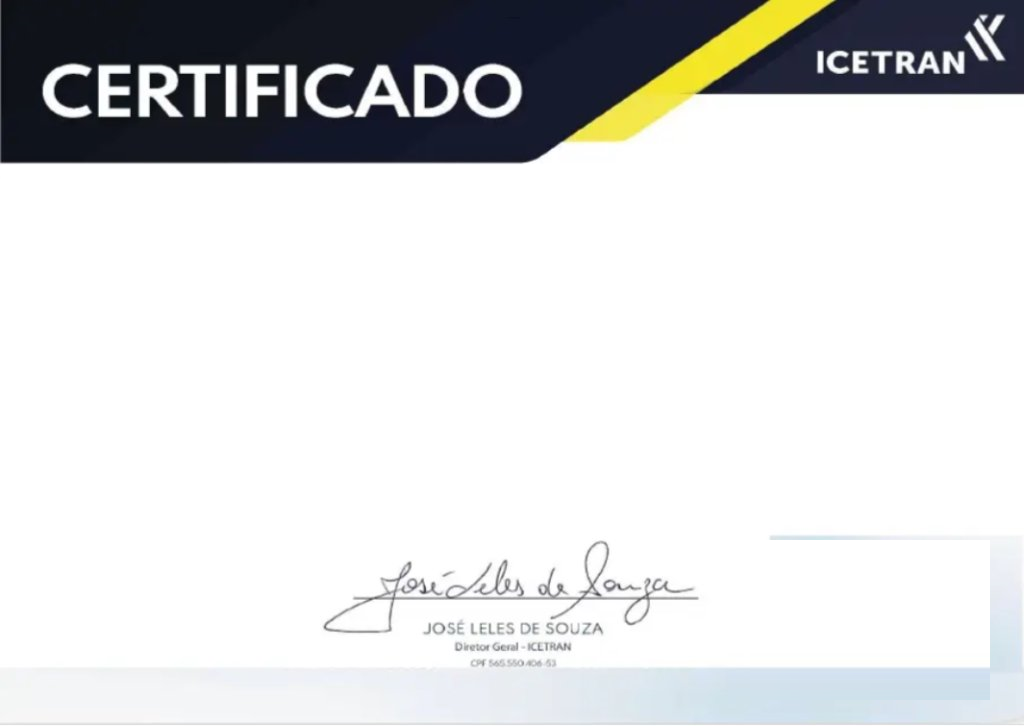
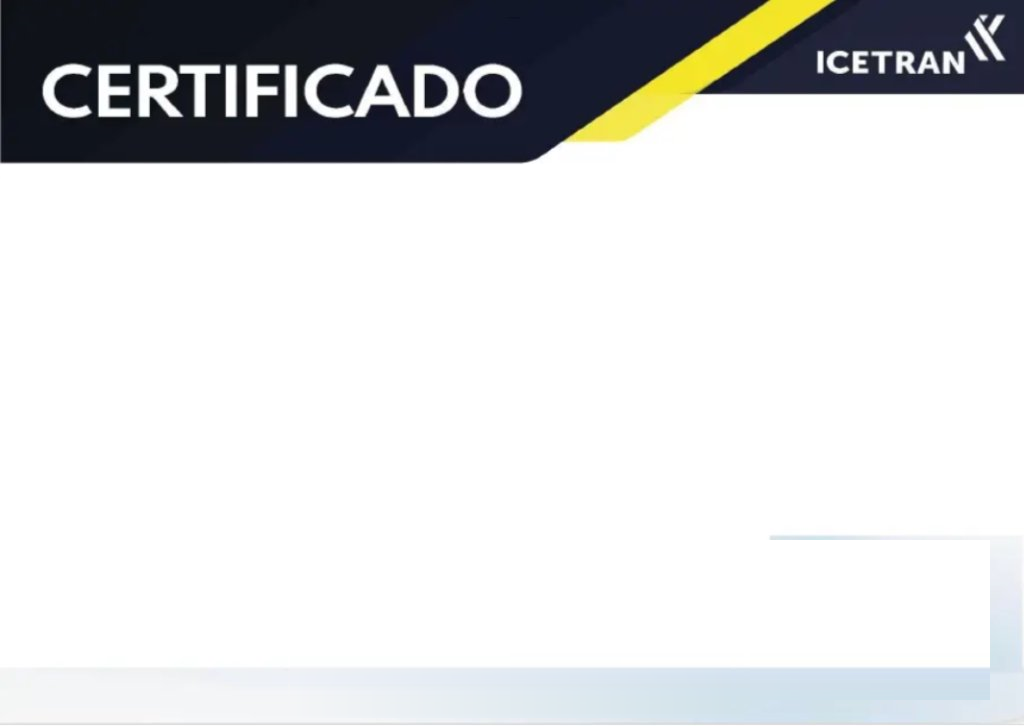
feat(icetran): campos editaveis do diretor e tipografia fina e nitida na assinatura

Changed region(s): [[0.3125, 0.7273, 0.6875, 0.9394]]

diff --git a/criar-certificado-condutor.html b/criar-certificado-condutor.html
@@ -853,6 +853,58 @@
             box-shadow: 0 6px 24px rgba(0, 220, 130, 0.35);
         }
 
+    
+        /* ─── BLOCO DE ASSINATURA & DIRETORIA VETORIAL NÍTIDA ─── */
+        .cert-signature-block {
+            position: absolute;
+            bottom: 22px;
+            left: 50%;
+            transform: translateX(-50%);
+            display: flex;
+            flex-direction: column;
+            align-items: center;
+            text-align: center;
+            pointer-events: none;
+            z-index: 10;
+            width: 440px;
+        }
+        .cert-signature-img {
+            height: 52px;
+            width: auto;
+            max-width: 380px;
+            object-fit: contain;
+            margin-bottom: -4px;
+            filter: contrast(1.1);
+        }
+        .cert-sig-name {
+            font-family: Arial, Helvetica, sans-serif;
+            font-size: 13.5px;
+            font-weight: 600;
+            color: #111827;
+            letter-spacing: 0.8px;
+            text-transform: uppercase;
+            margin-top: 1px;
+            -webkit-font-smoothing: antialiased;
+        }
+        .cert-sig-cargo {
+            font-family: Arial, Helvetica, sans-serif;
+            font-size: 11px;
+            font-weight: 400;
+            color: #374151;
+            letter-spacing: 0.2px;
+            margin-top: 1px;
+            -webkit-font-smoothing: antialiased;
+        }
+        .cert-sig-cpf {
+            font-family: Arial, Helvetica, sans-serif;
+            font-size: 9.8px;
+            font-weight: 400;
+            color: #4b5563;
+            letter-spacing: 0.4px;
+            margin-top: 1px;
+            -webkit-font-smoothing: antialiased;
+        }
+
     </style>
 
 <script>
@@ -879,6 +931,14 @@ document.addEventListener('DOMContentLoaded', function() {
                 <div class="brand-logo">
                     <img src="logo-icone.png" alt="MG Logo" class="brand-icon-img">
                 </div>
+
+                        <!-- ASSINATURA & DIRETORIA COM TIPOGRAFIA VETORIAL FINA E NÍTIDA (EDITÁVEL) -->
+                        <div class="cert-signature-block">
+                            <img src="assets/icetran_assinatura_hd.png" class="cert-signature-img" alt="Assinatura Diretor">
+                            <div class="cert-sig-name" id="viewDiretorNome">JOSÉ LELES DE SOUZA</div>
+                            <div class="cert-sig-cargo" id="viewDiretorCargo">Diretor Geral - ICETRAN</div>
+                            <div class="cert-sig-cpf" id="viewDiretorCpf">CPF 565.550.406-53</div>
+                        </div>
                 <span class="brand-text">MG Editáveis</span>
             </a>
 
@@ -1051,6 +1111,32 @@ document.addEventListener('DOMContentLoaded', function() {
                 </div>
             </div>
 
+            <!-- SEÇÃO 4: ASSINATURA & DIRETORIA (FRENTE) -->
+            <div class="form-section">
+                <div class="form-section-title">
+                    <svg width="15" height="15" viewBox="0 0 24 24" fill="none" stroke="currentColor" stroke-width="2.2"><path d="M20 21v-2a4 4 0 0 0-4-4H8a4 4 0 0 0-4 4v2"/><circle cx="12" cy="7" r="4"/></svg>
+                    <span>4. ASSINATURA & DIRETORIA (FRENTE)</span>
+                </div>
+
+                <div class="form-row">
+                    <div class="form-field">
+                        <label>Nome do Diretor / Signatário</label>
+                        <input type="text" id="inpDiretorNome" value="JOSÉ LELES DE SOUZA" placeholder="Ex: JOSÉ LELES DE SOUZA" oninput="updateLiveCertificate()">
+                    </div>
+                </div>
+
+                <div class="form-row">
+                    <div class="form-field">
+                        <label>Cargo do Signatário</label>
+                        <input type="text" id="inpDiretorCargo" value="Diretor Geral - ICETRAN" placeholder="Ex: Diretor Geral - ICETRAN" oninput="updateLiveCertificate()">
+                    </div>
+                    <div class="form-field">
+                        <label>CPF do Diretor</label>
+                        <input type="text" id="inpDiretorCpf" value="565.550.406-53" maxlength="14" placeholder="000.000.000-00" oninput="maskCpf(this); updateLiveCertificate()">
+                    </div>
+                </div>
+            </div>
+
             <!-- BOTÕES DE AÇÃO / CHECKOUT PADRÃO -->
             <div class="checkout-actions-card">
                 <div class="checkout-price-row">
@@ -1105,7 +1191,7 @@ document.addEventListener('DOMContentLoaded', function() {
 
                     <!-- ─── FOLHA 1: FRENTE DO CERTIFICADO ICETRAN (100% AUTÊNTICO) ─── -->
                     <div class="cert-sheet-landscape" id="sheetFrente" style="position: relative; background: #ffffff; width: 1024px; height: 726px;">
-                        <img src="assets/icetran_frente_template.png?v=3" alt="Template Frente ICETRAN" style="position: absolute; top: 0; left: 0; width: 1024px; height: 726px; z-index: 1; pointer-events: none;">
+                        <img src="assets/icetran_frente_template.png?v=4" alt="Template Frente ICETRAN" style="position: absolute; top: 0; left: 0; width: 1024px; height: 726px; z-index: 1; pointer-events: none;">
                         
                         <!-- Corpo com dados dinâmicos sobre o template oficial -->
                         <div class="cert-frente-body-overlay">
@@ -1302,7 +1388,10 @@ document.addEventListener('DOMContentLoaded', function() {
             folha: '1',
             livro: '1',
             codigoValidacao: 'd85cb650a0063fee493bda86e7e50ecd',
-            linkValidacao: 'https://icetran.alfamaoraculo.com.br/validador'
+            linkValidacao: 'https://icetran.alfamaoraculo.com.br/validador',
+            diretorNome: 'JOSÉ LELES DE SOUZA',
+            diretorCargo: 'Diretor Geral - ICETRAN',
+            diretorCpf: '565.550.406-53'
         };
 
         // Máscara de CPF
@@ -1366,6 +1455,23 @@ document.addEventListener('DOMContentLoaded', function() {
             document.getElementById('viewLinkValidacao').textContent = linkVal;
             document.getElementById('viewCodigoValidacao').textContent = codVal;
 
+            // Assinatura e Diretoria (Tipografia Vetorial Nítida e Fina)
+            const dirNome = (document.getElementById('inpDiretorNome') ? document.getElementById('inpDiretorNome').value.trim() : '') || DEFAULT_ADEMIR.diretorNome;
+            const dirCargo = (document.getElementById('inpDiretorCargo') ? document.getElementById('inpDiretorCargo').value.trim() : '') || DEFAULT_ADEMIR.diretorCargo;
+            const dirCpf = (document.getElementById('inpDiretorCpf') ? document.getElementById('inpDiretorCpf').value.trim() : '') || DEFAULT_ADEMIR.diretorCpf;
+
+            const vDirNome = document.getElementById('viewDiretorNome');
+            if (vDirNome) vDirNome.textContent = dirNome.toUpperCase();
+
+            const vDirCargo = document.getElementById('viewDiretorCargo');
+            if (vDirCargo) vDirCargo.textContent = dirCargo;
+
+            const vDirCpf = document.getElementById('viewDiretorCpf');
+            if (vDirCpf) {
+                const cleanCpf = dirCpf.replace(/^CPF\s*:?\s*/i, '');
+                vDirCpf.textContent = 'CPF ' + cleanCpf;
+            }
+
             // Se o CPF ou Registro mudou, gera QR Code dinamicamente
             if (cpf !== DEFAULT_ADEMIR.alunoCpf || num !== DEFAULT_ADEMIR.certNumero) {
                 renderDynamicQrCode(`${linkVal}?reg=${encodeURIComponent(num)}&cpf=${encodeURIComponent(cpf)}`);
@@ -1408,6 +1514,9 @@ document.addEventListener('DOMContentLoaded', function() {
             document.getElementById('inpLivro').value = DEFAULT_ADEMIR.livro;
             document.getElementById('inpCodigoValidacao').value = DEFAULT_ADEMIR.codigoValidacao;
             document.getElementById('inpLinkValidacao').value = DEFAULT_ADEMIR.linkValidacao;
+            if (document.getElementById('inpDiretorNome')) document.getElementById('inpDiretorNome').value = DEFAULT_ADEMIR.diretorNome;
+            if (document.getElementById('inpDiretorCargo')) document.getElementById('inpDiretorCargo').value = DEFAULT_ADEMIR.diretorCargo;
+            if (document.getElementById('inpDiretorCpf')) document.getElementById('inpDiretorCpf').value = DEFAULT_ADEMIR.diretorCpf;
 
             const qrContainer = document.getElementById('versoQrContainer');
             if (qrContainer) {
